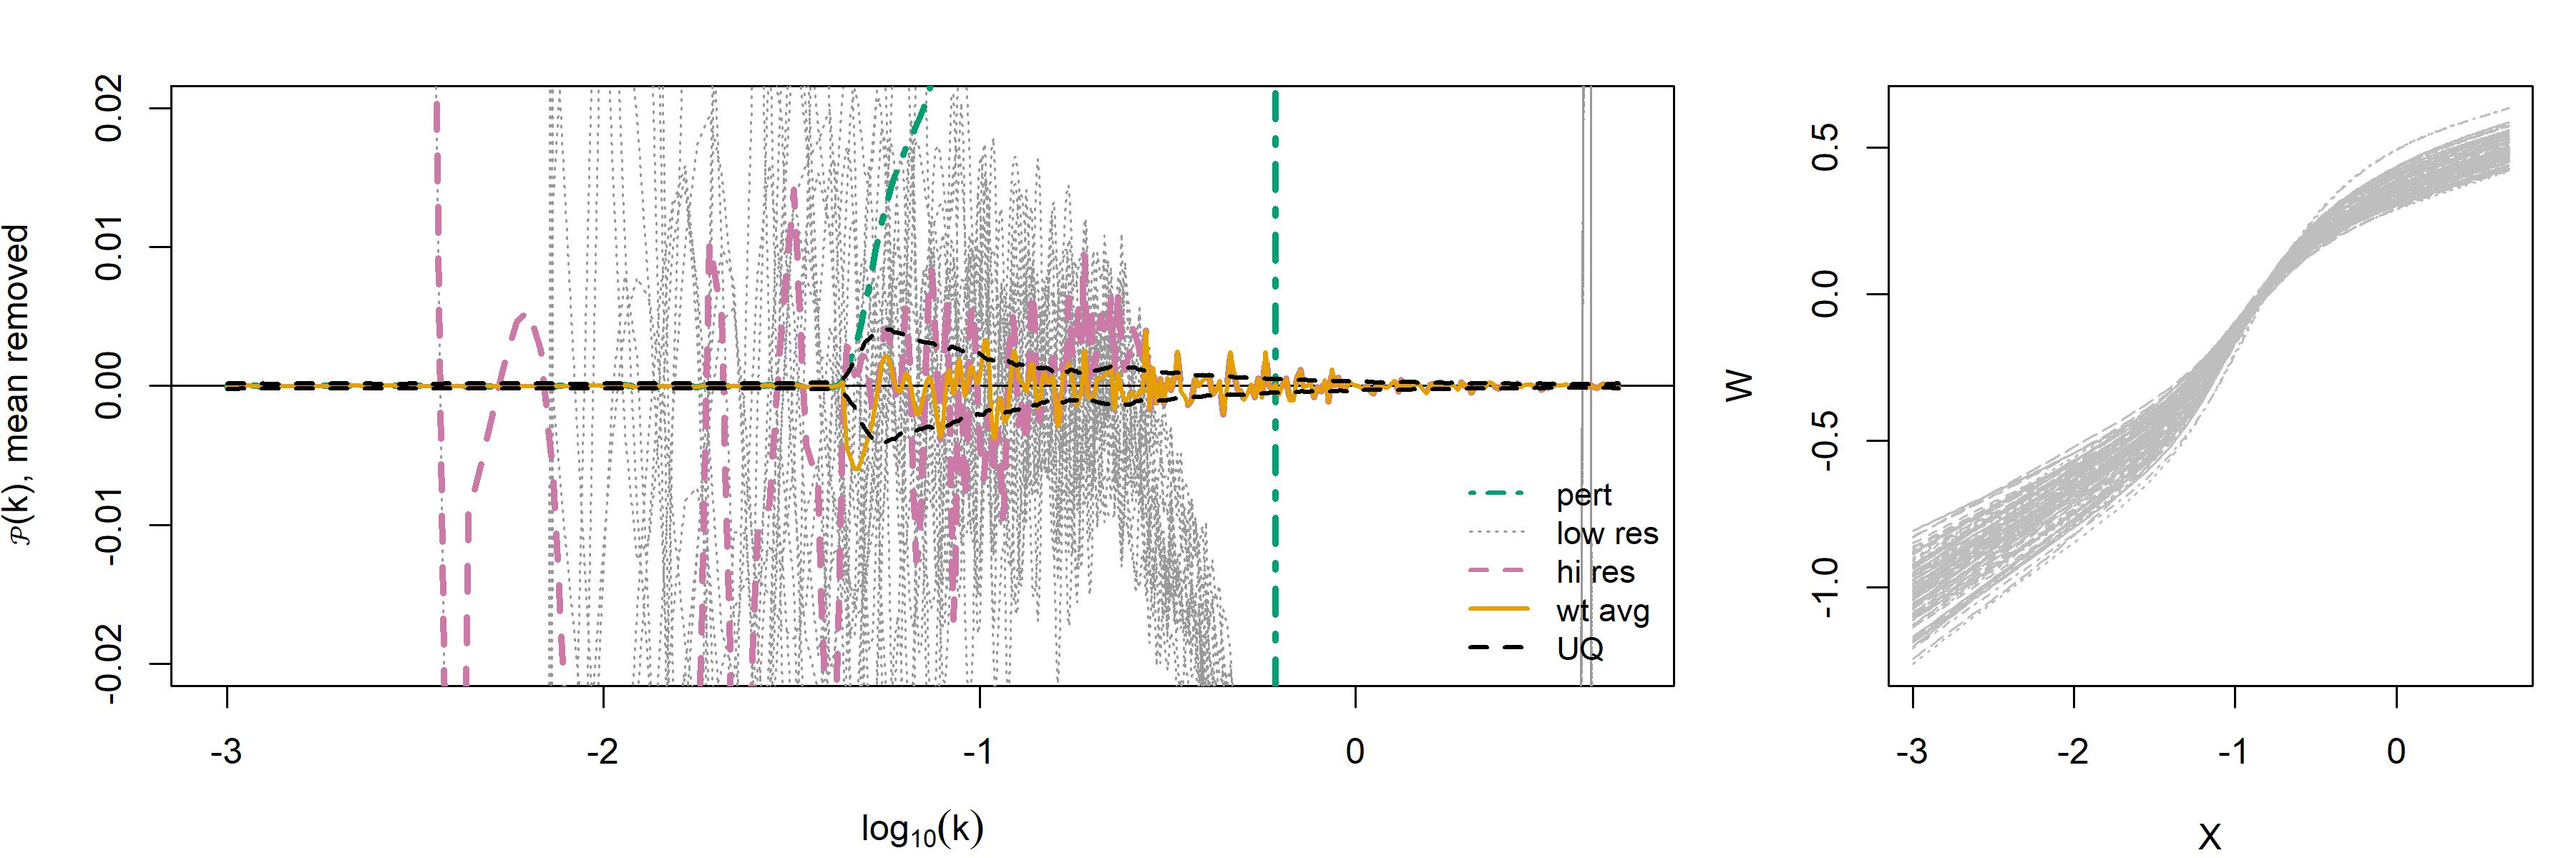
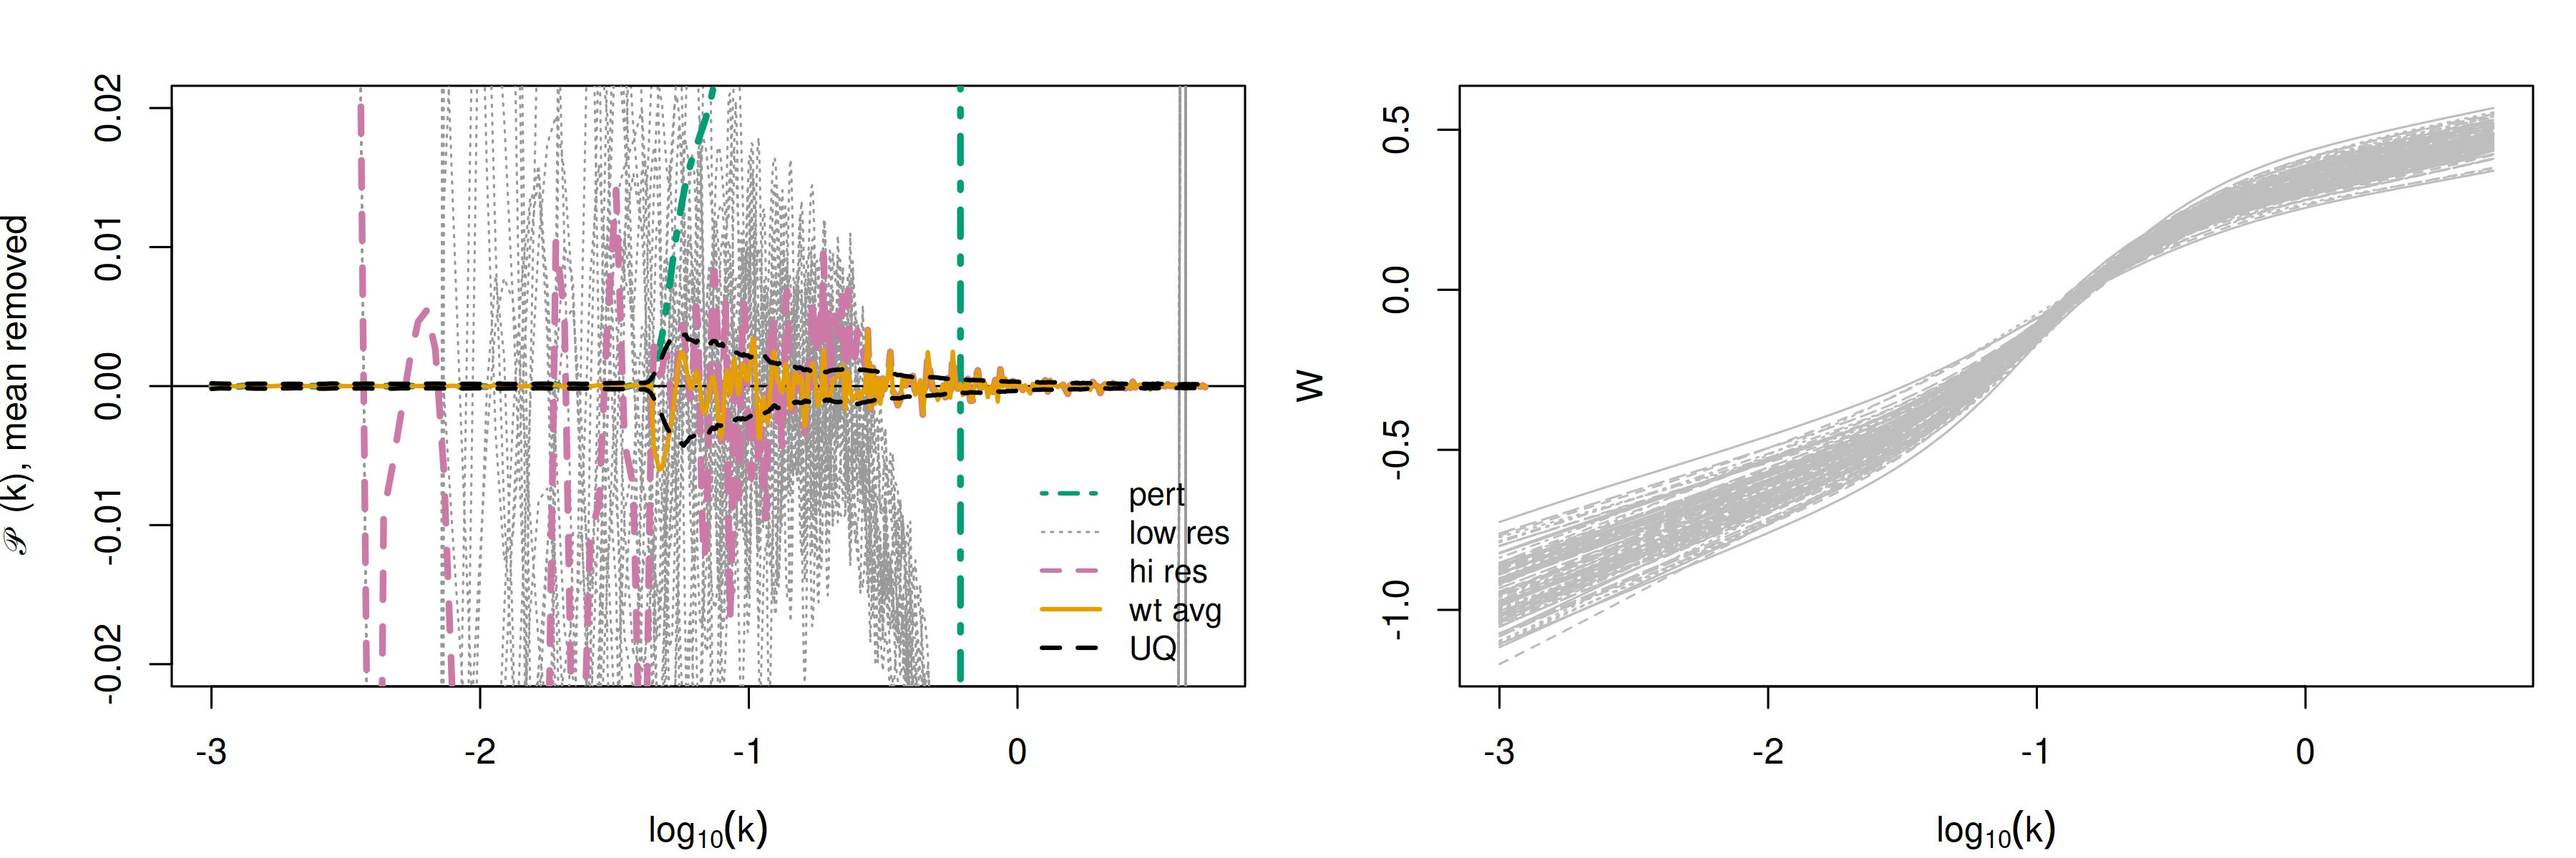
adjust images per coauthor suggestions

diff --git a/paper/main.tex b/paper/main.tex
@@ -171,7 +171,7 @@ There is an optional ninth parameter, the redshift, which we fix at 0.
     \centering 
     \includegraphics[width=\linewidth]{plot_data.jpeg}
     \caption{{\it Left:} The perturbation theory (solid green), low resolution runs (solid gray), 
-    and high resolution run  (solid pink) for a particular cosmology. 
+    and high resolution run  (solid pink) for the first cosmology. 
     The weighted average of these is shown in dashed orange. Dotted lines at the bottom
     indicate where each data type is deemed approximately unbiased. 
     {\it Middle:} Same as left, but restricted to wavenumber ($k$) values where the low resolution 
@@ -469,8 +469,12 @@ spectrum is notably smoother than its low- and high-resolution counterparts.
 \begin{figure}
     \centering
     \includegraphics[width=\textwidth]{CAMB_fit_model1.jpeg}
-    \caption{Example of DGP.FCO model fit for the first batch of model runs from the CAMB data, 
-             with a LOESS mean of the weighted average subtracted to emphasize details. We can 
+    \caption{{\it Left:} The infinite-resolution (dotted blue), 
+             low-resolution runs (solid gray), and high-resolution run (solid pink) 
+             for the first CAMB cosmology.
+             {\it Right:} Example of DGP.FCO model fit for the first CAMB cosmology, 
+             with a LOESS mean of the 
+             weighted average subtracted to emphasize details. We can 
              compare the orange lines (posterior mean and dotted 95\% credible interval) to the 
              light blue line, representing the infinite-resolution ``true" spectrum.}   
     \label{fig:fit_camb}
@@ -526,8 +530,9 @@ to \cite{walsh2023bayesian} for a more detailed exposition. This yields
 $\Sigma_\varepsilon=\left(\Lambda_p^{-1} + \Sigma_\ell + \Lambda_h^{-1}\right)^{-1}$.
 
 We then fit our DGP.FCO model on each of 111 training cosmologies, reserving 6 cosmologies
-for later hold-out testing.  Figure \ref{fig:plot_fit} 
-visualizes the DGP.FCO fit for the first training cosmology.  We center the plot
+for later hold-out testing.  The left panel of Figure \ref{fig:plot_fit} 
+visualizes the DGP.FCO fit for the first training cosmology (compare this with the left
+panel of Figure \ref{fig:plot_data}).  We center the plot
 by subtracting the posterior mean in order to more easily visualize the credible
 interval bounds.  The UQ from the DGP.FCO model accounts for varying precisions 
 across differing $k$ values, as well as the spatial correlation within the 
@@ -539,7 +544,7 @@ stretching inputs where dynamics are shifting more rapidly for larger $k$ values
 
 \begin{figure}[ht]
     \centering
-    \includegraphics[width=6in]{plot_fit.jpeg}
+    \includegraphics[width=\textwidth]{plot_fit.jpeg}
     \caption{{\it Left:} 95\% credible intervals for the power spectrum of the first Mira-Titan
     cosmology (centered by the predicted posterior mean). Perturbation theory, 
     low-resolution, and high-resolution runs are shown for context. {\it Right:} Posterior draws
@@ -666,7 +671,7 @@ estimates of the true spectra for each cosmology.
 
 \begin{figure}
     \centering
-    \includegraphics[width=\textwidth]{mse_dot.jpeg}
+    \includegraphics[width=2in]{mse_dot.jpeg}
     \caption{Comparison of MSE for CAMB predictions, when training with DGP.FCO posterior 
              means and training with the ``true" infinite-resolution spectra. The identity line 
              provides equal MSE values among both methods.}   
